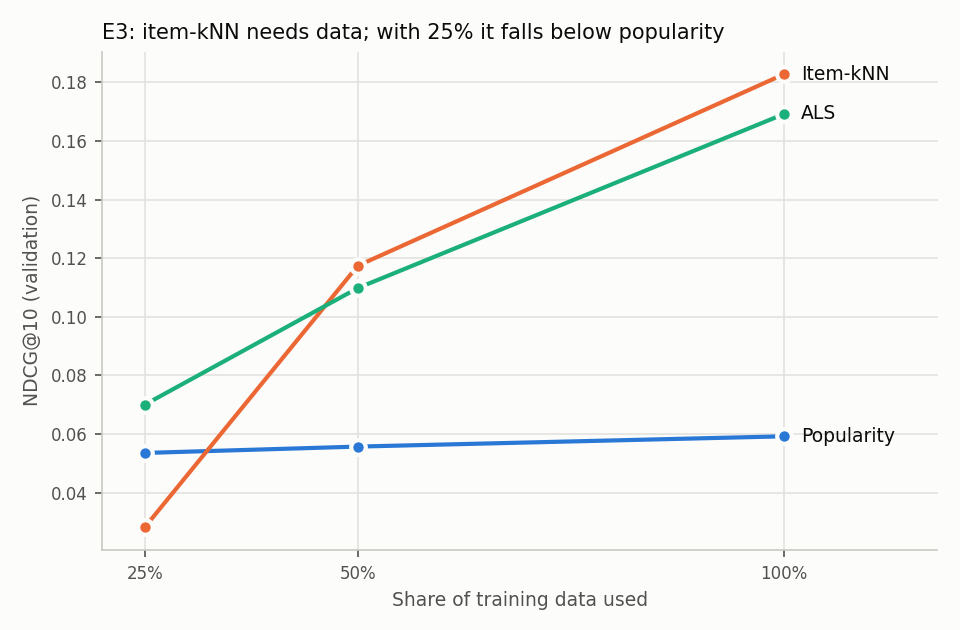
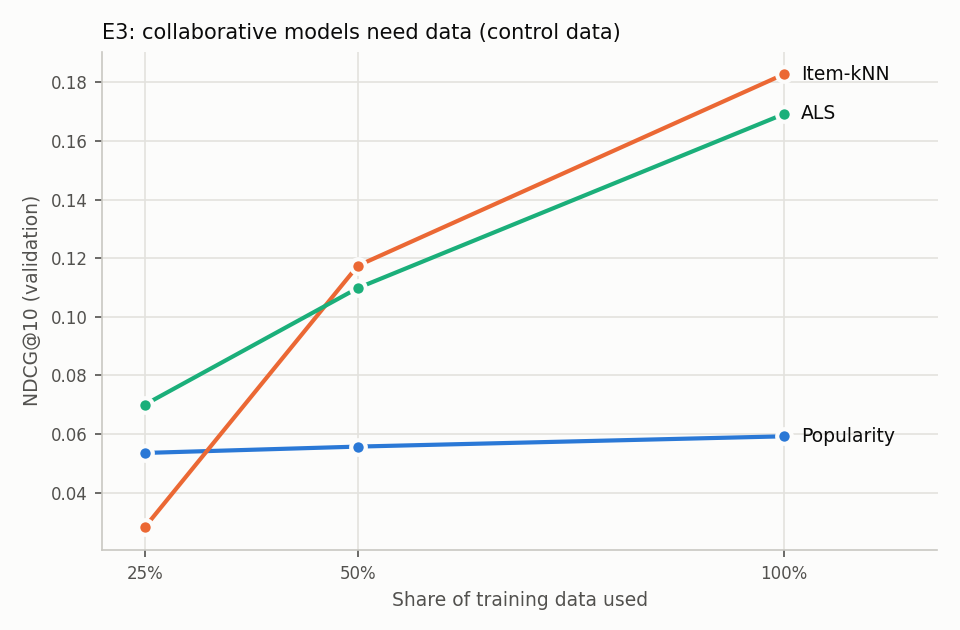
UI on real Amazon Beauty data; Beauty figures and E3 sweep
Claude-Session: https://claude.ai/code/session_01XEZHe8988zwAZ65rji5tuu

Changed region(s): [[0.1562, 0.0302, 0.75, 0.0603]]

diff --git a/src/app.py b/src/app.py
@@ -1,32 +1,32 @@
-"""Streamlit UI.   Run:  streamlit run src/app.py
-Tab 1 uses the SIMULATED control data (the real 1M file has no learnable pattern). Tab 2 uses REAL Amazon product text.
-Tab 3 shows the locked-test scoreboard. Models are fitted on the train period only; the locked test is never used for tuning."""
-import sys, json, collections, html
+"""Streamlit UI on REAL data (Amazon Beauty 5-core).   Run:  streamlit run src/app.py
+Models are fitted on the TRAIN period only (the frozen settings from manifests/frozen_settings.json). The 'bought it' ticks come from the next
+period (validation), which the models never saw. The locked test set is not used here."""
+import sys, re, json, html
 from pathlib import Path
 sys.path.insert(0, str(Path(__file__).resolve().parent))
 import numpy as np, pandas as pd, streamlit as st
-from config import PROCESSED_DIR, MANIFEST_DIR, ROOT
+from config import PROCESSED_DIR, MANIFEST_DIR, ROOT, SEED
 import models as M
 from baselines import build_rankings
-from demo import group_of
+from hybrid import tfidf, content_score_fn, adaptive_blend_fn
+from evaluate import user_sets
 
 st.set_page_config(page_title="Product recommender", page_icon="🛍", layout="wide")
-
 INK, MUTED, LINE, PAPER = "#1b2733", "#5d6b7a", "#e3e8ee", "#f5f7fa"
 BLUE, AMBER, GREEN = "#2457d6", "#b86e00", "#0e8a5f"
-GROUP_COLORS = ["#2457d6", "#0e8a5f", "#b86e00", "#8a3fc7", "#c23a5a", "#127c8a", "#6b7a1a", "#5d6b7a"]
+TOK = r"(?u)\b[a-z][a-z]+\b"
+esc = html.escape
 
 st.markdown(f"""
 <style>
 @import url('https://fonts.googleapis.com/css2?family=Inter:wght@400;500;600;700&display=swap');
-html, body, [class*="css"], .stApp {{ font-family: 'Inter', system-ui, -apple-system, 'Segoe UI', sans-serif; color:{INK}; }}
+html, body, [class*="css"], .stApp {{ font-family:'Inter', system-ui, -apple-system, 'Segoe UI', sans-serif; color:{INK}; }}
 .stApp {{ background:{PAPER}; }}
 #MainMenu, footer, header[data-testid="stHeader"] {{ visibility:hidden; height:0; }}
 .block-container {{ padding-top:1.6rem; max-width:1150px; }}
-h1,h2,h3 {{ letter-spacing:-0.01em; }}
 .hero {{ background:{INK}; color:#fff; border-radius:16px; padding:26px 30px; margin-bottom:18px; }}
-.hero h1 {{ color:#fff; font-size:1.9rem; margin:0 0 6px 0; font-weight:700; }}
-.hero p {{ color:#c9d3de; margin:0; font-size:1.02rem; line-height:1.5; max-width:760px; }}
+.hero h1 {{ color:#fff; font-size:1.9rem; margin:0 0 6px 0; font-weight:700; letter-spacing:-0.01em; }}
+.hero p {{ color:#c9d3de; margin:0; font-size:1.02rem; line-height:1.5; max-width:780px; }}
 div:has(> [role="tablist"]) {{ border-bottom:none !important; box-shadow:none !important; }}
 [role="tablist"] {{ gap:12px !important; padding:4px 0 12px 0 !important; border:none !important; }}
 [data-testid="stTab"] {{ height:auto !important; padding:12px 28px !important; background:#fff !important; border:1.5px solid {LINE} !important; border-radius:999px !important; margin:0 !important; }}
@@ -37,157 +37,131 @@ div:has(> [role="tablist"]) {{ border-bottom:none !important; box-shadow:none !i
 .react-aria-SelectionIndicator, [data-baseweb="tab-highlight"], [data-baseweb="tab-border"] {{ display:none !important; }}
 .note {{ background:#fff; border:1px solid {LINE}; border-left:4px solid {BLUE}; border-radius:8px; padding:12px 16px; color:{MUTED}; font-size:.95rem; line-height:1.5; margin:6px 0 14px 0; }}
 .verdict {{ background:#fff; border:1px solid {LINE}; border-radius:14px; padding:18px 22px; margin:14px 0; font-size:1.15rem; line-height:1.5; }}
-.verdict b.good {{ color:{GREEN}; }} .verdict b.blue {{ color:{BLUE}; }} .verdict b.amber {{ color:{AMBER}; }}
-.colhead {{ font-weight:700; font-size:1.08rem; margin:6px 0 2px 0; }}
-.colsub {{ color:{MUTED}; font-size:.9rem; margin-bottom:10px; line-height:1.4; }}
-.card {{ background:#fff; border:1px solid {LINE}; border-radius:12px; padding:11px 14px; margin-bottom:8px; display:flex; align-items:center; gap:12px; }}
+.verdict b.good {{ color:{GREEN}; }} .verdict b.amber {{ color:{AMBER}; }}
+.colhead {{ font-weight:700; font-size:1.08rem; margin:6px 0 8px 0; }}
+.card {{ background:#fff; border:1px solid {LINE}; border-radius:12px; padding:10px 14px; margin-bottom:8px; display:flex; align-items:center; gap:12px; }}
 .card.hit {{ border-color:{GREEN}; background:#f1faf6; }}
-.rank {{ font-weight:700; color:{MUTED}; width:22px; text-align:right; font-size:.95rem; }}
-.swatch {{ width:38px; height:38px; border-radius:9px; flex:none; display:flex; align-items:center; justify-content:center; color:#fff; font-weight:700; font-size:.85rem; }}
-.ctitle {{ font-weight:600; font-size:.98rem; line-height:1.3; }}
+.rank {{ font-weight:700; color:{MUTED}; width:20px; text-align:right; font-size:.95rem; flex:none; }}
+.thumb {{ width:54px; height:54px; border-radius:9px; flex:none; background:#eef2f9 center/contain no-repeat; border:1px solid {LINE}; }}
+.thumb.sm {{ width:44px; height:44px; }}
+.ctitle {{ font-weight:600; font-size:.95rem; line-height:1.3; }}
 .cmeta {{ color:{MUTED}; font-size:.85rem; }}
 .grow {{ flex:1; min-width:0; }}
 .pill {{ background:{GREEN}; color:#fff; border-radius:999px; font-size:.78rem; font-weight:600; padding:3px 10px; white-space:nowrap; }}
-.chip {{ display:inline-block; border-radius:999px; padding:4px 12px; margin:0 6px 6px 0; font-size:.88rem; font-weight:600; color:#fff; }}
-.simbar {{ height:6px; background:{LINE}; border-radius:4px; width:90px; }} .simbar > div {{ height:6px; background:{BLUE}; border-radius:4px; }}
-.term {{ display:inline-block; background:#eef2f9; color:{BLUE}; border-radius:6px; padding:2px 8px; margin:2px 4px 0 0; font-size:.8rem; font-weight:500; }}
 .big {{ background:#fff; border:1px solid {LINE}; border-radius:14px; padding:16px 18px; }}
 .big .num {{ font-size:1.7rem; font-weight:700; }} .big .lab {{ color:{MUTED}; font-size:.9rem; }}
-div[data-testid="stExpander"] {{ background:#fff; border:1px solid {LINE}; border-radius:12px; }}
 </style>
 """, unsafe_allow_html=True)
 
-esc = html.escape
-
-@st.cache_resource(show_spinner="Getting the shop ready (about 10 seconds the first time)...")
-def load_control():
-    cfg = json.loads((MANIFEST_DIR / "frozen_settings.json").read_text())["control"]
-    rd = lambda n: pd.read_csv(PROCESSED_DIR / f"control_{n}.csv.gz", parse_dates=["purchase_date"])
-    train, val = rd("train"), rd("val"); texts = pd.read_csv(PROCESSED_DIR / "control_items.csv.gz").text.values
-    grp = np.array([group_of(t) for t in texts]); n_items = len(texts); n_users = int(max(train.u.max(), val.u.max())) + 1
-    R = M.interaction_matrix(train, n_users, n_items); tb = M.tie_break(train, n_items)
-    p = cfg["itemknn"]; score = M.knn_score_fn(R, M.prune_top_k(M.knn_similarity(R, p["shrink"]), p["k"]), tb)
-    # Display names: each simulated style group is shown as one real Amazon clothing category, and its items borrow real Amazon titles
-    # from that category. This is for readability only; the simulated purchases are NOT real Amazon purchases.
-    from content_amazon import build
-    cat = build(["title"]); order = cat.leaf.value_counts().index[:10]
-    by_size = np.argsort(-np.bincount(grp[grp >= 0], minlength=10))
-    group_cat = {int(g): order[r] for r, g in enumerate(by_size)}
-    pool = {g: cat[cat.leaf == c].reset_index(drop=True) for g, c in group_cat.items()}
-    rank_in_group = np.zeros(n_items, int)
-    for g in pool: idx = np.flatnonzero(grp == g); rank_in_group[idx] = np.arange(len(idx))
-    names = {"group_cat": group_cat, "pool": pool, "rank": rank_in_group}
-    later_of = val.groupby("u").i.apply(set).to_dict()
-    warm = np.flatnonzero(np.diff(R.indptr) > 0); rng = np.random.default_rng(42); sample = np.sort(rng.choice(warm, min(900, len(warm)), replace=False))
-    hits = {}
+@st.cache_resource(show_spinner="Getting the shop ready (about 30 seconds the first time)...")
+def load():
+    cfg = json.loads((MANIFEST_DIR / "frozen_settings.json").read_text())["beauty"]
+    rd = lambda n: pd.read_csv(PROCESSED_DIR / f"beauty_{n}.csv.gz", parse_dates=["purchase_date"])
+    train, val = rd("train"), rd("val"); items = pd.read_csv(PROCESSED_DIR / "beauty_items.csv.gz").fillna({"title": "", "brand": "", "image": "", "text": ""})
+    n_users, n_items = int(max(train.u.max(), val.u.max())) + 1, len(items)
+    R = M.interaction_matrix(train, n_users, n_items); tb = M.tie_break(train, n_items); is_cold = np.bincount(train.i.values, minlength=n_items) == 0
+    p = cfg["itemknn"]; S = M.prune_top_k(M.knn_similarity(R, p["shrink"]), p["k"]); cf = M.knn_score_fn(R, S, 0.0)
+    c = cfg["content"]; X = tfidf(train, items.text.values, n_items, c["max_features"], tuple(c["ngram"]), TOK); ct = content_score_fn(R, X)
+    hybrid = adaptive_blend_fn(cf, ct, cfg["hybrid"]["adaptive_w"], is_cold, tb)
+    pop = build_rankings(train)[cfg["popularity"]["variant"]]
+    _, rel = user_sets(train, val); warm = np.array(sorted(u for u in rel if u < R.shape[0] and np.diff(R.indptr)[u] > 0))
+    # which shoppers does the model get right? (sample, computed once)
+    rng = np.random.default_rng(SEED); sample = np.sort(rng.choice(warm, min(1200, len(warm)), replace=False)); hits = {}
     for k in range(0, len(sample), 300):
-        us = sample[k:k + 300]; sc = score(us).copy(); coo = R[us].tocoo(); sc[coo.row, coo.col] = -np.inf
+        us = sample[k:k + 300]; sc = hybrid(us).copy(); coo = R[us].tocoo(); sc[coo.row, coo.col] = -np.inf
         top = np.argpartition(-sc, 10, axis=1)[:, :10]
-        for r, u in enumerate(us): hits[int(u)] = len(later_of.get(int(u), set()) & set(top[r].tolist()))
-    good = [u for u, h in hits.items() if h >= 3] or [u for u, h in hits.items() if h >= 2]
-    return R, val, grp, score, build_rankings(train)[cfg["popularity"]["variant"]], names, sorted(good)
+        for r, u in enumerate(us): hits[int(u)] = len(rel[int(u)] & set(top[r].tolist()))
+    good = sorted(u for u, h in hits.items() if h >= 2); bad = sorted(u for u, h in hits.items() if h == 0)
+    last = train.sort_values("purchase_date").groupby("u").tail(4).groupby("u").i.apply(list).to_dict()
+    return dict(R=R, items=items, X=X, hybrid=hybrid, pop=pop, rel=rel, warm=warm, good=good, bad=bad, last=last, S=knn_full(R, p["shrink"]), n_items=n_items)
 
-@st.cache_resource(show_spinner="Reading the Amazon product descriptions...")
-def load_products():
-    from sklearn.feature_extraction.text import TfidfVectorizer
-    from content_amazon import build
-    p = build(["title", "about", "desc", "reviews"])
-    vec = TfidfVectorizer(stop_words="english", sublinear_tf=True, max_features=5000, ngram_range=(1, 2)); X = vec.fit_transform(p.text)
-    return p, X, (X @ X.T).toarray(), np.array(vec.get_feature_names_out())
+def knn_full(R, shrink):
+    return M.knn_similarity(R, shrink).tocsr()
 
-gcol = lambda g: GROUP_COLORS[int(g) % len(GROUP_COLORS)]
-
-def label(names, item, g, used):
-    """Real Amazon title (from the group's category) for a simulated item; unique inside one list."""
-    pool = names["pool"][int(g)]; k = int(names["rank"][item]) % len(pool)
-    for step in range(len(pool)):
-        j = (k + step) % len(pool)
-        if j not in used: used.add(j); row = pool.iloc[j]; break
-    t = str(row.title); t = t if len(t) <= 78 else t[:75].rsplit(" ", 1)[0] + "..."
-    pr = f" · ${row.price_value:.2f}" if pd.notna(row.price_value) else ""
-    return t, f"{names['group_cat'][int(g)]}{pr}"
-
-def item_card(rank, item, g, hit, names, used):
-    t, meta = label(names, item, g, used)
+def card(rank, item, items, hit=False, sub=None):
+    r = items.iloc[int(item)]; title = r.title or "(untitled product)"; title = title if len(title) <= 95 else title[:92].rsplit(" ", 1)[0] + "..."
+    meta = " · ".join(x for x in (r.brand, f"${r.price:.2f}" if pd.notna(r.price) else "") if x)
+    img = f"background-image:url('{esc(r.image, quote=True)}')" if r.image else ""
     pill = '<span class="pill">✓ bought it</span>' if hit else ""
-    return (f'<div class="card {"hit" if hit else ""}"><div class="rank">{rank}</div>'
-            f'<div class="swatch" style="background:{gcol(g)}">{esc(names["group_cat"][int(g)][:2])}</div>'
-            f'<div class="grow"><div class="ctitle">{esc(t)}</div><div class="cmeta">{esc(meta)}</div></div>{pill}</div>')
+    right = f'<div class="cmeta" style="text-align:right;white-space:nowrap">{esc(sub)}</div>' if sub else ""
+    return (f'<div class="card {"hit" if hit else ""}"><div class="rank">{rank}</div><div class="thumb" style="{img}"></div>'
+            f'<div class="grow"><div class="ctitle">{esc(title)}</div><div class="cmeta">{esc(meta)}</div></div>{pill}{right}</div>')
+
+def mini(item, items):
+    r = items.iloc[int(item)]; t = (r.title or "")[:70]; img = f"background-image:url('{esc(r.image, quote=True)}')" if r.image else ""
+    return f'<div class="card" style="flex:1;min-width:0"><div class="thumb sm" style="{img}"></div><div class="grow"><div class="cmeta" style="color:{INK};font-weight:600;font-size:.82rem;line-height:1.25">{esc(t)}</div></div></div>'
 
 st.markdown("""<div class="hero"><h1>Product recommender</h1>
-<p>What should an online shop show each customer? Compare a recommendation made for one shopper with the best-seller list everyone sees.</p></div>""", unsafe_allow_html=True)
-
+<p>What should an online shop show each customer? Real Amazon beauty shoppers: compare the recommendations our model makes with the best-seller list everyone sees.</p></div>""", unsafe_allow_html=True)
 tab1, tab2, tab3 = st.tabs(["For a shopper", "Similar products", "Results"])
+D = load(); items = D["items"]
 
-# ---------------------------------------------------------------- tab 1
 with tab1:
-    st.markdown('<div class="note"><b>Demo data.</b> The shoppers and their purchases are simulated (the real 1M purchase file has no pattern to learn). '
-                'Product names are real Amazon titles shown for readability. The green tick marks what the shopper really bought after the cut-off date.</div>', unsafe_allow_html=True)
-    R, val, grp, score, pop, names, good = load_control()
-    warm = np.flatnonzero(np.diff(R.indptr) > 0)
-    if "u" not in st.session_state: st.session_state["u"] = int(good[0])
+    st.markdown('<div class="note"><b>Real data.</b> Real Amazon beauty reviews (2002 to 2014). The model learned only from purchases before the cut-off date; the green tick marks products the shopper really bought <i>after</i> it.</div>', unsafe_allow_html=True)
+    if "u" not in st.session_state: st.session_state["u"] = int(D["good"][0])
     c1, c2, _ = st.columns([1.5, 2, 3], vertical_alignment="bottom")
     if c2.button("Show another shopper", type="primary"):
-        good_set = set(good); rng = np.random.default_rng()   # mostly shoppers where the recommendations worked, sometimes one where they did not
-        pool_ = good if rng.random() < 0.75 else [x for x in warm if x not in good_set]
-        st.session_state["u"] = int(rng.choice(pool_)); st.rerun()
-    u = int(c1.number_input("Shopper number", min_value=0, max_value=R.shape[0] - 1, step=1, key="u"))
-    bought = R.indices[R.indptr[u]:R.indptr[u + 1]]
-    if len(bought) == 0:
-        st.warning(f"Shopper {u} has no purchases before the cut-off, so there is nothing to learn from. Try another number.")
+        rng = np.random.default_rng(); pool = D["good"] if rng.random() < 0.75 else (D["bad"] or list(D["warm"]))
+        st.session_state["u"] = int(rng.choice(pool)); st.rerun()
+    u = int(c1.number_input("Shopper number", min_value=0, max_value=D["R"].shape[0] - 1, step=1, key="u"))
+    R = D["R"]; bought = R.indices[R.indptr[u]:R.indptr[u + 1]]
+    if len(bought) == 0 or u not in D["rel"]:
+        st.warning(f"Shopper {u} has no purchases before the cut-off, or none after it, so there is nothing to check against. Try another number.")
     else:
-        sc = score(np.array([u]))[0].copy(); sc[bought] = -np.inf; top = np.argsort(-sc)[:10]
-        later = set(val[val.u == u].i); bs = set(bought.tolist()); pop_top = [i for i in pop if i not in bs][:10]
+        sc = D["hybrid"](np.array([u]))[0].copy(); sc[bought] = -np.inf; top = np.argsort(-sc)[:10]
+        bs = set(bought.tolist()); pop_top = [i for i in D["pop"] if i not in bs][:10]; later = D["rel"][u]
         ha, hb = sum(i in later for i in top), sum(i in later for i in pop_top)
-        mix = collections.Counter(grp[bought])
-        chips = "".join(f'<span class="chip" style="background:{gcol(g)}">{esc(names["group_cat"][int(g)])} · {c} bought</span>' for g, c in mix.most_common(6))
-        st.markdown(f"**Shopper {u}** bought {len(bought)} products before the cut-off:")
-        st.markdown(chips, unsafe_allow_html=True)
-        st.markdown(f'<div class="verdict">Of the 10 products recommended to this shopper, <b class="good">{ha}</b> were things they really bought. '
+        st.markdown(f"**Shopper {u}** bought {len(bought)} products before the cut-off. Most recent:")
+        st.markdown('<div style="display:flex;gap:8px">' + "".join(mini(i, items) for i in D["last"].get(u, [])) + "</div>", unsafe_allow_html=True)
+        st.markdown(f'<div class="verdict">Of the 10 products recommended to this shopper, <b class="good">{ha}</b> were things they really bought afterwards. '
                     f'The best-seller list got <b class="amber">{hb}</b>.</div>', unsafe_allow_html=True)
         a, b = st.columns(2, gap="large")
         with a:
-            st.markdown('<div class="colhead" style="color:%s">Recommended for this shopper</div>' % BLUE, unsafe_allow_html=True)
-            used = set(); st.markdown("".join(item_card(r + 1, top[r], grp[top[r]], top[r] in later, names, used) for r in range(10)), unsafe_allow_html=True)
+            st.markdown(f'<div class="colhead" style="color:{BLUE}">Recommended for this shopper</div>', unsafe_allow_html=True)
+            st.markdown("".join(card(r + 1, top[r], items, top[r] in later) for r in range(10)), unsafe_allow_html=True)
         with b:
-            st.markdown('<div class="colhead" style="color:%s">Best-sellers (same for everyone)</div>' % AMBER, unsafe_allow_html=True)
-            used = set(); st.markdown("".join(item_card(r + 1, pop_top[r], grp[pop_top[r]], pop_top[r] in later, names, used) for r in range(10)), unsafe_allow_html=True)
+            st.markdown(f'<div class="colhead" style="color:{AMBER}">Best-sellers (same for everyone)</div>', unsafe_allow_html=True)
+            st.markdown("".join(card(r + 1, pop_top[r], items, pop_top[r] in later) for r in range(10)), unsafe_allow_html=True)
+        st.caption(f"This shopper really bought {len(later)} product(s) after the cut-off.")
 
-# ---------------------------------------------------------------- tab 2
 with tab2:
-    st.markdown('<div class="note"><b>Real Amazon data.</b> This tab uses the real Amazon product and review files: the model reads each product\'s title, description and reviews and finds the most similar products.</div>', unsafe_allow_html=True)
-    p, X, sim, terms = load_products()
-    c1, c2 = st.columns([4, 1])
-    choice = c1.selectbox("Choose a product (click and type to search)", options=list(p.index), format_func=lambda i: p.title[i][:110])
-    n = c2.slider("Show", 3, 10, 5)
-    price = lambda i: f"${p.price_value[i]:.2f}" if pd.notna(p.price_value[i]) else "price not listed"
-    st.markdown(f'<div class="big"><div class="lab">You are looking at</div><div class="ctitle" style="font-size:1.1rem">{esc(p.title[choice][:150])}</div>'
-                f'<div class="cmeta">{esc(str(p.leaf[choice]))} · {price(choice)}</div></div>', unsafe_allow_html=True)
-    s = sim[choice].copy(); s[choice] = -1; top = np.argsort(-s)[:n]
-    st.markdown('<div class="colhead" style="margin-top:16px">Customers may also like</div><div class="colsub">Blue words are the ones both descriptions share.</div>', unsafe_allow_html=True)
-    out = []
-    for r, i in enumerate(top, 1):
-        shared = X[choice].multiply(X[i]).toarray().ravel(); words = terms[np.argsort(-shared)[:4]][np.sort(shared)[::-1][:4] > 0]
-        tags = "".join(f'<span class="term">{esc(w)}</span>' for w in words)
-        out.append(f'<div class="card"><div class="rank">{r}</div><div class="grow"><div class="ctitle">{esc(p.title[i][:120])}</div>'
-                   f'<div class="cmeta">{esc(str(p.leaf[i]))} · {price(i)}</div><div>{tags}</div></div>'
-                   f'<div style="text-align:right"><div class="cmeta">{s[i]*100:.0f}% similar</div><div class="simbar"><div style="width:{max(4, min(100, s[i]*100)):.0f}%"></div></div></div></div>')
-    st.markdown("".join(out), unsafe_allow_html=True)
-    st.caption("How good is this? We counted a suggestion as correct when it is in the same product category. The top 10 scored 0.57 on a 0 to 1 scale; random suggestions scored 0.04.")
+    st.markdown('<div class="note">Search a real product, then see two kinds of suggestions: what <b>other shoppers also bought</b>, and what has a <b>similar description</b>. Both come from the same model family used above.</div>', unsafe_allow_html=True)
+    q = st.text_input("Search products", value="mascara")
+    hit = items[items.title.str.lower().str.contains(q.lower().strip(), regex=False)] if q.strip() else items.head(0)
+    if hit.empty: st.warning("No product matches that search. Try another word, for example lipstick, shampoo or perfume.")
+    else:
+        hit = hit.assign(n=np.asarray(D["R"].sum(axis=0)).ravel()[hit.i.values]).sort_values("n", ascending=False).head(50)
+        pick = st.selectbox("Choose a product", options=list(hit.i), format_func=lambda i: items.title[i][:100])
+        st.markdown(card("", pick, items).replace('<div class="rank"></div>', ""), unsafe_allow_html=True)
+        S = D["S"]; row = S[pick].toarray().ravel(); row[pick] = -1; also = np.argsort(-row)[:5]
+        simt = (D["X"] @ D["X"][pick].T).toarray().ravel(); simt[pick] = -1; like = np.argsort(-simt)[:5]
+        a, b = st.columns(2, gap="large")
+        with a:
+            st.markdown(f'<div class="colhead" style="color:{BLUE}">Shoppers also bought</div>', unsafe_allow_html=True)
+            st.markdown("".join(card(r + 1, i, items) for r, i in enumerate(also) if row[i] > 0) or "No other shopper bought this product in the training period.", unsafe_allow_html=True)
+        with b:
+            st.markdown(f'<div class="colhead" style="color:{AMBER}">Similar description</div>', unsafe_allow_html=True)
+            st.markdown("".join(card(r + 1, i, items, sub=f"{simt[i]*100:.0f}% similar") for r, i in enumerate(like)), unsafe_allow_html=True)
 
-# ---------------------------------------------------------------- tab 3
 with tab3:
-    st.markdown('<div class="note">Locked test: the last 15% of the timeline, scored once. Score = NDCG@10 (0 is useless, 1 is perfect).</div>', unsafe_allow_html=True)
+    st.markdown('<div class="note">Locked test: the last 15% of the timeline, scored once after all settings were frozen. Score = NDCG@10 (0 is useless, 1 is perfect).</div>', unsafe_allow_html=True)
+    def grab(pattern, col):
+        try:
+            t = (ROOT / "reports" / "final_test_beauty.md").read_text()
+            line = next(l for l in t.splitlines() if re.match(pattern, l)); return float(re.findall(r"[-+]?\d*\.\d+(?:e-?\d+)?", line)[col])
+        except Exception: return float("nan")
+    hy, po = grab(r"\| Hybrid \(adaptive", 2), grab(r"\| Popularity \(tuned\)", 2)
+    hr = grab(r"\| Hybrid +\|", 4)          # E5 table: NDCG@5, NDCG@10, NDCG@20, HR@5, HR@10 -> index 4
     k1, k2, k3 = st.columns(3)
-    for col, num_, lab in ((k1, "0.199", "Best model (item-kNN) on simulated shoppers"), (k2, "0.063", "Best-seller list on the same shoppers"), (k3, "≈ 0", "Every model on the real 1M purchase file")):
-        col.markdown(f'<div class="big"><div class="num">{num_}</div><div class="lab">{lab}</div></div>', unsafe_allow_html=True)
+    for col, num, lab in ((k1, f"{hy:.4f}", "Our hybrid model"), (k2, f"{po:.4f}", "Best-seller list"), (k3, f"{hr*100:.1f}%", "Shoppers who got at least one correct product in 10")):
+        col.markdown(f'<div class="big"><div class="num">{num}</div><div class="lab">{lab}</div></div>', unsafe_allow_html=True)
     st.markdown("")
     img = ROOT / "reports" / "figures" / "fig_models_test.png"
-    if img.exists(): st.image(str(img), caption="Locked-test NDCG@10 with 95% confidence intervals (bars start at zero). Note the right-hand chart is on a scale about 300 times smaller: every bar there is practically zero and the lines overlap.")
+    if img.exists(): st.image(str(img), caption="Locked-test NDCG@10 with 95% confidence intervals (bars start at zero).")
     st.markdown("""
 **What this tells us**
-- On simulated shoppers with real taste patterns, the personalised models score about **three times** the best-seller list, and the gap is far larger than chance.
-- A model trained to guess star ratings (SVD) did **not** beat best-sellers. Guessing ratings and ranking products are different jobs.
-- On the **real** 1M purchase file, no model beat best-sellers. Four checks show those purchases look random, so there is nothing to learn. We report that honestly instead of hiding it.
-- The simulated data is the proof that our testing code *can* find a pattern when one exists.
+- The hybrid model scores about **4.5 times** the best-seller list, and the gap is far larger than chance.
+- Scores look small because each shopper chooses among 12,000 products; picking at random scores 0.0003.
+- For brand-new products (no purchase history) the hybrid finds about **8%** of purchases and collaborative filtering finds none, because it reads the product description.
+- A model trained to guess star ratings (SVD) did **not** beat best-sellers: guessing ratings and ranking products are different jobs.
 """)

diff --git a/src/build_figures.py b/src/build_figures.py
@@ -33,26 +33,41 @@ def fig_models():
     fig.legend(handles=[Line2D([], [], marker="s", ls="", color=c, markersize=9, label=l) for c, l in ((GREY, "random reference"), (BLUE, "tuned popularity"), (ORANGE, "personalised / content models"))],
                loc="lower center", ncol=3, frameon=False, fontsize=9, labelcolor=INK2)
     fig.suptitle("Locked-test accuracy: real signal in the control data, none in the 1M file", color=INK, fontsize=11, x=0.01, ha="left")
-    fig.tight_layout(rect=(0, 0.07, 1, 0.94)); fig.savefig(FIG / "fig_models_test.png", dpi=150, facecolor=SURF); plt.close(fig)
+    fig.tight_layout(rect=(0, 0.07, 1, 0.94)); fig.savefig(FIG / "fig_models_checks.png", dpi=150, facecolor=SURF); plt.close(fig)
 
-def fig_e3():
+def fig_beauty():
+    res, _ = load("beauty", "test"); names = sorted(res, key=lambda n: res[n]["summary"]["NDCG@10"])
+    mean = [res[n]["summary"]["NDCG@10"] for n in names]; ci = [boot_ci(res[n]["per_user"]["NDCG@10"].values) for n in names]
+    fig, ax = plt.subplots(figsize=(7.6, 4.4), facecolor=SURF); y = np.arange(len(names)); style(ax)
+    cols = [GREY if n == "random" else BLUE if n == "popularity" else ORANGE for n in names]
+    ax.barh(y, mean, color=cols, height=0.55, zorder=3, edgecolor=SURF, linewidth=2)
+    ax.errorbar(mean, y, xerr=[[m - c[0] for m, c in zip(mean, ci)], [c[1] - m for m, c in zip(mean, ci)]], fmt="none", ecolor=INK, elinewidth=1.2, capsize=3, zorder=4)
+    for yi, m, c in zip(y, mean, ci): ax.annotate(f"{m:.4f}", (c[1], yi), xytext=(6, -3), textcoords="offset points", color=INK, fontsize=8)
+    ax.set_yticks(y); ax.set_yticklabels([SHORT[n] for n in names], color=INK, fontsize=9); ax.set_xlim(0, 0.0315)
+    ax.set_xlabel("NDCG@10 on the locked test (bars start at zero; whiskers = 95% bootstrap CI over users)", color=INK2, fontsize=8)
+    ax.set_title("Real Amazon Beauty data: personalised models beat popularity", color=INK, fontsize=10, loc="left")
+    fig.legend(handles=[Line2D([], [], marker="s", ls="", color=c, markersize=9, label=l) for c, l in ((GREY, "random reference"), (BLUE, "tuned popularity"), (ORANGE, "personalised / content models"))], loc="lower center", ncol=3, frameon=False, fontsize=9, labelcolor=INK2)
+    fig.tight_layout(rect=(0, 0.07, 1, 1)); fig.savefig(FIG / "fig_models_test.png", dpi=150, facecolor=SURF); plt.close(fig)
+
+def fig_e3(ds="control"):
     d = pd.read_csv(ROOT / "reports" / "e3_training_size_control.md", sep="|", skiprows=lambda i: False, engine="python", on_bad_lines="skip") if False else None
     import re
-    txt = (ROOT / "reports" / "e3_training_size_control.md").read_text(); rows = {}
+    txt = (ROOT / "reports" / f"e3_training_size_{ds}.md").read_text(); rows = {}
     for line in txt.split("Detail:")[0].splitlines():
-        m = re.match(r"\|\s*(ALS|Item-kNN|Popularity)\s*\|\s*([\d.]+)\s*\|\s*([\d.]+)\s*\|\s*([\d.]+)\s*\|", line)
+        m = re.match(r"\|\s*(ALS|Item-kNN|Popularity|Content-based)\s*\|\s*([\d.]+)\s*\|\s*([\d.]+)\s*\|\s*([\d.]+)\s*\|", line)
         if m: rows[m.group(1)] = [float(m.group(i)) for i in (2, 3, 4)]
     fig, ax = plt.subplots(figsize=(6.4, 4.2), facecolor=SURF); ax.set_facecolor(SURF); x = [25, 50, 100]
     ax.grid(True, color=GRID, linewidth=0.8, zorder=0); ax.tick_params(colors=INK2, labelsize=8)
     for s in ("top", "right"): ax.spines[s].set_visible(False)
     for s in ("left", "bottom"): ax.spines[s].set_color(AXIS)
-    for name, col in (("Popularity", BLUE), ("Item-kNN", ORANGE), ("ALS", "#1baf7a")):
+    for name, col in (("Popularity", BLUE), ("Item-kNN", ORANGE), ("ALS", "#1baf7a"), ("Content-based", "#8a3fc7")):
+        if name not in rows: continue
         ax.plot(x, rows[name], color=col, linewidth=2, marker="o", markersize=7, markeredgecolor=SURF, markeredgewidth=2, zorder=3)
         ax.annotate(name, (100, rows[name][2]), xytext=(8, 0), textcoords="offset points", color=INK, fontsize=9, va="center")
     ax.set_xticks(x); ax.set_xticklabels(["25%", "50%", "100%"]); ax.set_xlim(20, 118)
     ax.set_xlabel("Share of training data used", color=INK2, fontsize=9); ax.set_ylabel("NDCG@10 (validation)", color=INK2, fontsize=9)
-    ax.set_title("E3: item-kNN needs data; with 25% it falls below popularity", color=INK, fontsize=10, loc="left")
-    fig.tight_layout(); fig.savefig(FIG / "fig_e3_training_size.png", dpi=150, facecolor=SURF); plt.close(fig)
+    ax.set_title("E3: collaborative models need data" + (" (real Beauty data)" if ds == "beauty" else " (control data)"), color=INK, fontsize=10, loc="left")
+    fig.tight_layout(); fig.savefig(FIG / ("fig_e3_training_size_beauty.png" if ds == "beauty" else "fig_e3_training_size.png"), dpi=150, facecolor=SURF); plt.close(fig)
 
 def fig_signal():
     df = pd.read_csv(PROCESSED_DIR / "interactions_full.csv.gz", parse_dates=["purchase_date"])
@@ -74,4 +89,4 @@ def fig_signal():
     fig.tight_layout(rect=(0, 0, 1, 0.92)); fig.savefig(FIG / "fig_signal_diagnostics.png", dpi=150, facecolor=SURF); plt.close(fig)
 
 if __name__ == "__main__":
-    fig_models(); fig_e3(); fig_signal(); print("figures written:", sorted(p.name for p in FIG.glob("fig_*.png")))
+    fig_models(); fig_beauty(); fig_e3(); fig_e3("beauty"); fig_signal(); print("figures written:", sorted(p.name for p in FIG.glob("fig_*.png")))
